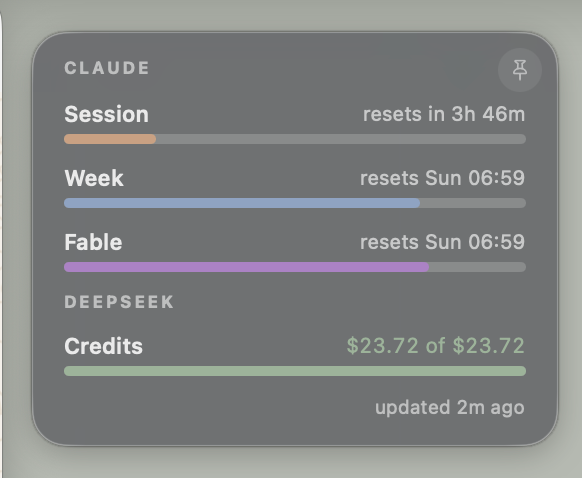
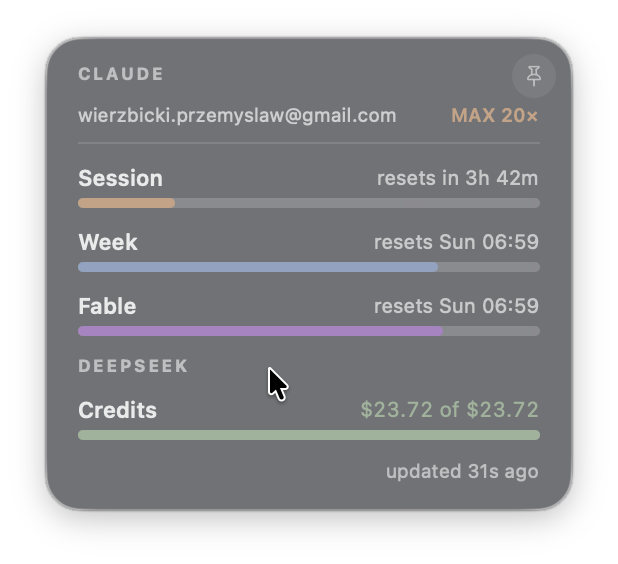
docs: user-picked hero capture — identity strip and hover cursor in frame

diff --git a/docs/index.html b/docs/index.html
@@ -261,7 +261,7 @@
     <p class="section-sub">Real screenshots — the pill, and the settings behind it.</p>
     <div class="shots">
       <figure class="shot">
-        <img src="img/pill.png" alt="The Usage Pill widget hover-expanded: Claude Session, Week, and Fable bars with reset countdowns and a DeepSeek credits drain bar, on the unified rounded-card silhouette" loading="lazy" />
+        <img src="img/pill.png" alt="The Usage Pill widget hover-expanded: account and plan strip, Claude Session, Week, and Fable bars with reset countdowns, and a DeepSeek credits drain bar, on the unified rounded-card silhouette" loading="lazy" />
         <figcaption>The pill, hover-expanded — every meter, one always-on-top card.</figcaption>
       </figure>
       <figure class="shot">

diff --git a/README.md b/README.md
@@ -10,7 +10,7 @@ optional warn thresholds. Hover expands the pill into a card with reset
 countdowns, full balances, and data freshness.
 
 <p align="center">
-  <img src="docs/screenshot-expanded.png" width="300" alt="Usage Pill, hover-expanded: Claude Session, Week, and Fable bars with reset countdowns, a DeepSeek credits drain bar, and a freshness footer">
+  <img src="docs/screenshot-expanded.png" width="300" alt="Usage Pill, hover-expanded: account and plan strip, Claude Session, Week, and Fable bars with reset countdowns, a DeepSeek credits drain bar, and a freshness footer">
 </p>
 
 - Floats above every window, on every Space, including over full-screen apps.
